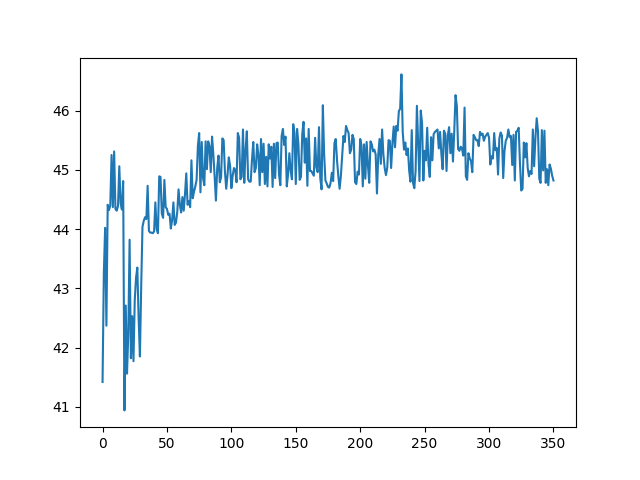
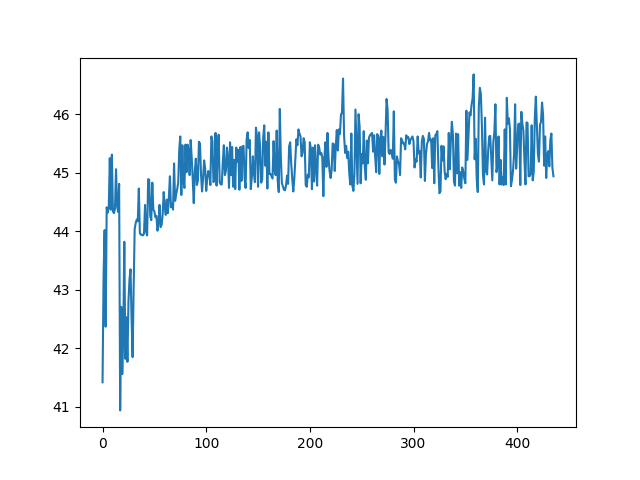
upgrades

diff --git a/genetic_algorithm.py b/genetic_algorithm.py
@@ -110,7 +110,7 @@ def evaluate_agent(name, agent, opponents, expected_number_of_interactions):
     return (name, sum([result[0] for result in results]))
 
 
-def evaluate_population(population, expected_number_of_interactions, best_agent):
+def evaluate_population(population, expected_number_of_interactions, best_agent, all_time_best_agent):
     """ Evaluate population """
     agents = []
     agent_names = []
@@ -124,7 +124,7 @@ def evaluate_population(population, expected_number_of_interactions, best_agent)
                Stephanie(), best_agent]
     opponent_names = ['TitForTat', 'Mac', 'Cynic', 'Random', 'Rube', 'Troll', 'Binomial', 'Advanced', 'Matcher',
                    'Forgiver', 'AdvancedPredict', 'EricTheEvil', 'TitForTwoTats', 'GrimTrigger', 'Stephanie',
-                   best_agent.get_name() + ' best']
+                   best_agent.get_name() + ' best', all_time_best_agent.get_name() + ' all time best']
 
     with multiprocessing.Pool() as pool:
         results = pool.starmap(evaluate_agent,
@@ -212,15 +212,15 @@ def breed(population, ii, mutation_rate=0.25):
 
 def genetic_algorithm():
     """ Genetic algorithm """
-    output_dir = '/home/nathan/ipd_output/overwork1/'
+    output_dir = '/home/nathan/ipd_output/overwork3/'
 
     # Initialize population
     population = [Nathan((np.random.rand(480) - 0.5), i) for i in range(5000)]
 
     best = population[0]
-    # Evaluate population
-    evaluate_population(population, 50, best)
-    # Repeat until termination condition met
+    all_time_best = population[0]
+    all_time_best_fitness = 0
+    evaluate_population(population, 50, best, all_time_best)
 
     best_chart = []
 
@@ -231,18 +231,24 @@ def genetic_algorithm():
         # Breed next generation
         population = breed(population, ii)
         # Evaluate population
-        evaluate_population(population, (500.0 * random.random()) + 50, best)
+        evaluate_population(population, (500.0 * random.random()) + 50, best, all_time_best)
         ii += len(population)
         best = max(population, key=lambda x: x.fitness)
 
         print('Generation: {}'.format(ii))
         print('Best fitness: {}'.format(best.fitness))
-        print('Best genes: {}'.format(best.genes))
+        # print('Best genes: {}'.format(best.genes))
         print('Best name: {}'.format(best.get_name()))
 
         # Save best solution
         with open(output_dir + 'best.json', 'w') as f:
             json.dump(best.genes.tolist(), f)
+
+        if best.fitness > all_time_best_fitness:
+            all_time_best = best
+            all_time_best_fitness = best.fitness
+            with open(output_dir + f'all_time_best_{all_time_best_fitness}.json', 'w') as f:
+                json.dump(all_time_best.genes.tolist(), f)
 
         best_chart.append(best.fitness)
 
